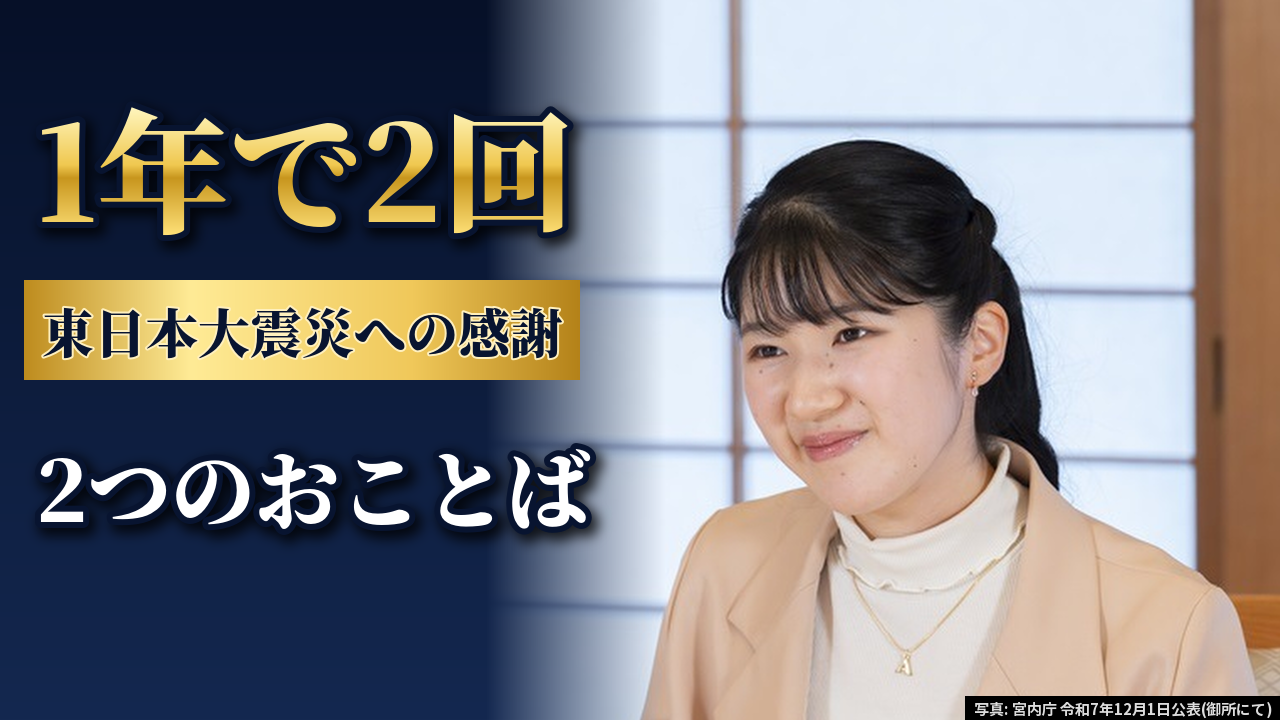
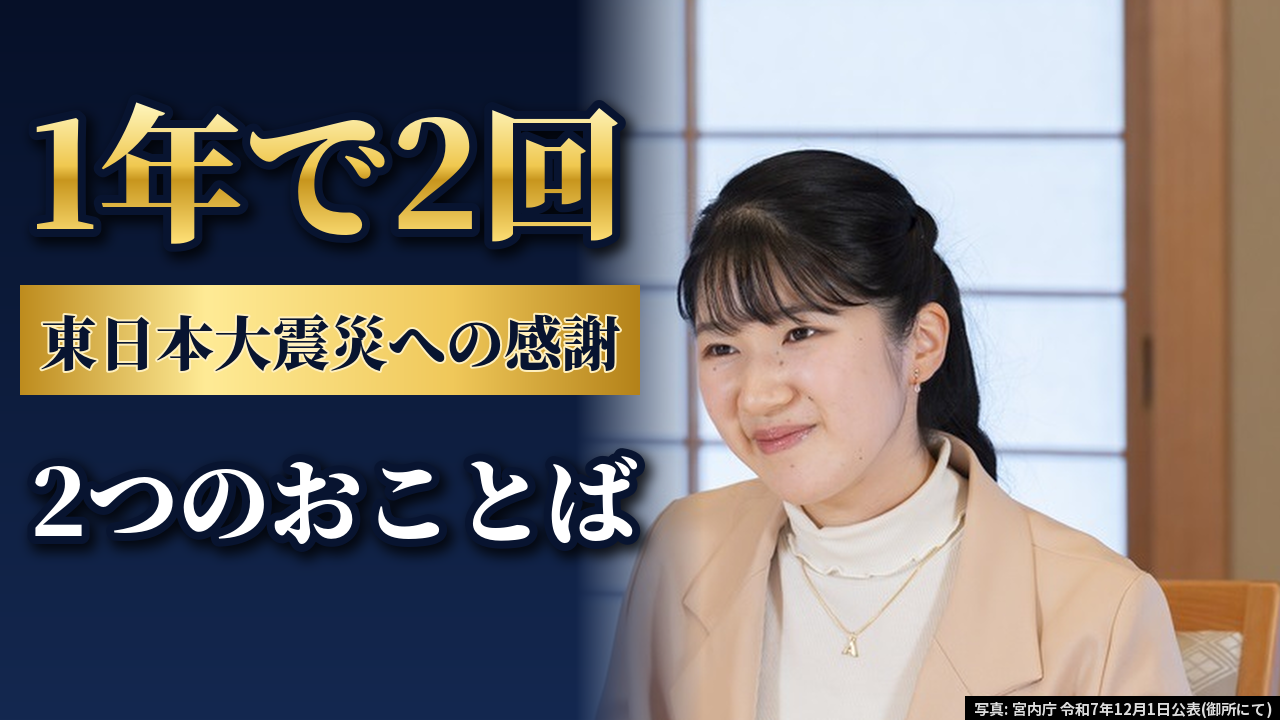
長尺の表紙: 写真5.5割・文字4.5割、55歳以上の女性がスマホで読める文字、下部の濃紺グラデーション廃止(荒木指示)
Claude-Session: https://claude.ai/code/session_01BJaPieHBuTRAAQkfULpzEX

diff --git a/pipeline/thumb_long.py b/pipeline/thumb_long.py
@@ -120,36 +120,35 @@ def credit(im, s):
     w = d.textlength(s, font=f); d.rectangle((W - w - 16, H - 24, W, H), fill=(0, 0, 0)); d.text((W - w - 8, H - 23), s, font=f, fill=(220, 220, 220))
 
 
-def type_R(out, img, focus, big, band, line, cap, big_fill="white", face_h=250):
-    """人物1名(バランス型・荒木さんと調整中の型): 右に写真(画面の約6割)、左に文字(読みやすい大きさ)"""
+def type_R(out, img, focus, big, band, line, cap, big_fill="white", face_h=240):
+    """人物1名(荒木さんと調整中の型): 写真 約5.5割(右)・文字 約4.5割(左)。スマホで55歳以上の女性が読める大きさ"""
+    PW = 704
     im = Image.new("RGB", (W, H), NAVY)
-    ph = place(img, 800, H, (430, 330), face_h, focus); im.paste(ph, (W - 800, 0))
-    fx, fy, fw, fh = place.last_face; faces_ = [(fx + W - 800, fy, fw, fh)]
-    fade = grad(W, H, [(0, (255, 255, 255)), (0.38, (255, 255, 255)), (0.52, (0, 0, 0)), (1, (0, 0, 0))], horizontal=True).convert("L")
+    ph = place(img, PW + 120, H, (400, 330), face_h, focus); im.paste(ph, (W - PW - 120, 0))
+    fx, fy, fw, fh = place.last_face; faces_ = [(fx + W - PW - 120, fy, fw, fh)]
+    fade = grad(W, H, [(0, (255, 255, 255)), (0.45, (255, 255, 255)), (0.55, (0, 0, 0)), (1, (0, 0, 0))], horizontal=True).convert("L")
     im = Image.composite(grad(W, H, [(0, (6, 16, 40)), (1, (20, 40, 80))]), im, fade)
-    text(im, (36, 70), big, 136, fill=big_fill, maxw=540)
-    gold_band(im, (24, 280, 580, 380), band, 74)
-    text(im, (36, 425), line, 84, maxw=560)
+    text(im, (30, 60), big, 150, fill=big_fill, sw=8, maxw=600)
+    gold_band(im, (20, 285, 640, 395), band, 84)
+    text(im, (30, 430), line, 96, sw=8, maxw=620)
     credit(im, cap); im.save(out)
-    check_faces(out, faces_, [(24, 50, 600, 240), (24, 280, 580, 380), (24, 415, 620, 540)])
+    check_faces(out, faces_, [(20, 40, 640, 250), (20, 285, 640, 395), (20, 420, 660, 560)])
 
 
 def type_D(out, img1, f1, img2, f2, top, big, band, cap):
-    """人物2名(または人物と場所)(バランス型): 左右に写真、上の帯と下の帯に文字"""
+    """人物2名(または人物と場所): 写真 約5.5割(中央の高さ)・文字 約4.5割(上の帯と下)。下部の濃紺グラデーションは使わない"""
     im = Image.new("RGB", (W, H), NAVY)
-    p1 = place(img1, 640, H, (320, 320), 200, f1); fa = place.last_face
-    p2 = place(img2, 640, H, (320, 320), 200, f2); fb = place.last_face
+    p1 = place(img1, 640, H, (320, 305), 175, f1); fa = place.last_face
+    p2 = place(img2, 640, H, (320, 305), 175, f2); fb = place.last_face
     im.paste(p1, (0, 0)); im.paste(p2, (640, 0))
     ImageDraw.Draw(im).line((640, 0, 640, H), fill=(10, 20, 45), width=6)
     faces_ = ([fa] if f1 is None or len(f1) < 4 else []) + ([(fb[0] + 640, fb[1], fb[2], fb[3])] if f2 is None or len(f2) < 4 else [])
-    im.paste(grad(W, 96, [(0, (6, 14, 36)), (1, (16, 32, 68))]), (0, 0))
-    text(im, (W // 2, 48), top, 72, anchor="mm", maxw=1200, shadow=False)
-    low = grad(W, 260, [(0, (0, 0, 0)), (0.35, (255, 255, 255)), (1, (255, 255, 255))]).convert("L")
-    im.paste(Image.new("RGB", (W, 260), (6, 14, 36)), (0, 460), low)
-    text(im, (W // 2, 548), big, 132, fill="gold", anchor="mm", maxw=1000)
-    gold_band(im, (190, 640, 1090, 708), band, 54)
+    im.paste(grad(W, 100, [(0, (6, 14, 36)), (1, (16, 32, 68))]), (0, 0))
+    text(im, (W // 2, 50), top, 80, anchor="mm", maxw=1220, shadow=False)
+    text(im, (W // 2, 538), big, 140, fill="gold", sw=9, anchor="mm", maxw=1060)
+    gold_band(im, (150, 640, 1130, 714), band, 62)
     credit(im, cap); im.save(out)
-    check_faces(out, faces_, [(0, 0, W, 96), (140, 480, 1140, 720)])
+    check_faces(out, faces_, [(0, 0, W, 100), (110, 465, 1170, 720)])
 
 
 if __name__ == "__main__":
@@ -159,6 +158,6 @@ if __name__ == "__main__":
     type_R(O + "thumb_A.png", A + "A115.jpg", None, "愛子さま", "2つの国のおことば", "込めた感謝とは？",
            "写真: 宮内庁 令和7年12月1日公表")
     type_R(O + "thumb_B.png", A + "A118.jpg", (0.53, 0.33, 0.17), "1年で2回", "東日本大震災への感謝", "2つのおことば",
-           "写真: 宮内庁 令和7年12月1日公表(御所にて)", big_fill="gold", face_h=190)
+           "写真: 宮内庁 令和7年12月1日公表(御所にて)", big_fill="gold", face_h=180)
     type_D(O + "thumb_C.png", A + "A020.jpg", None, S + "jg.jpg", (0.5, 0.5, 0.21, "scene"),
            "祖父母が植えた木", "56年前", "シンガポールで語られた3代", "写真: 宮内庁 2026.6.22 ©Naoya Ikegami/SUNTORY HALL / イメージ: 日本庭園 FN-082 CC BY-SA 4.0")

diff --git a/templates/thumb_long_template.md b/templates/thumb_long_template.md
@@ -19,15 +19,15 @@
 - **文字はワンフレーズで短く**（1行あたり目安8〜10字。長い文は載せない）。表紙の文字はタイトルの言葉から取る
 - 背景は写真。写真のない所は濃紺のグラデーション（写真へなじませる）
 - 赤・絵文字・汗マーク・?!・赤丸・作り台詞の吹き出し・矢印は使わない。写真は切り抜き・拡大縮小のみ（顔の加工・AI生成はしない。参考画像の生成画像そのものは使わない）
-- **お顔を文字に重ねない・見切れさせない（荒木指示 2026-11-24）：** お顔は決まった位置に決まった大きさで置く（型R: 右側 x約910・顔の高さ約250px／型D: 左右それぞれの中央・顔の高さ約200px、いずれも y約320）。髪から顎までの頭の範囲が、文字・帯の枠と重ならず、画面の外に出ないことを `check_faces` で必ず確かめる（不合格なら写真か位置を変える）。写真が足りない所は同じ写真のぼかしで埋める。主役以外の方のお顔が文字の下に半分隠れる写真は使わない
+- **お顔を文字に重ねない・見切れさせない（荒木指示 2026-11-24）：** お顔は決まった位置に決まった大きさで置く（型R: 右側 x約860・顔の高さ約240px・y約330／型D: 左右それぞれの中央・顔の高さ約175px・y約305）。髪から顎までの頭の範囲が、文字・帯の枠と重ならず、画面の外に出ないことを `check_faces` で必ず確かめる（不合格なら写真か位置を変える）。写真が足りない所は同じ写真のぼかしで埋める。主役以外の方のお顔が文字の下に半分隠れる写真は使わない
 - 右下に小さく写真の出典・撮影日
 
-**写真と文字のバランス（荒木指示 2026-11-24：画像を大事にしつつ、極端にしない）：** 写真が画面の約6割、文字が約4割。お顔ははっきり見える大きさ（型Rで約250px・型Dで約200px）、文字も読みやすい大きさにする。
+**写真と文字のバランス（荒木指示 2026-11-24 確定）：** **写真 約5.5割・文字 約4.5割。見る人はスマホで55歳以上の女性**と考え、文字は大きく太く（縁取り8〜9px＋影）、お顔ははっきり見える大きさ（型Rで約240px・型Dで約175px）にする。**下部に濃紺のグラデーションは敷かない**（下の文字は写真の上に縁取りで載せ、帯は金の帯だけ）。
 - **主役の写真は長辺1000px以上のものを使う**（宮内庁の400px程度の写真は大きく引き伸ばすとぼやけるため、主役には使わない）
 - 型は荒木さんとのやり取りで仕上げている途中。決まった点はこの文書に書き足していく
 
-**型R（人物1名）**: 右約6割に人物の写真、左に「大きな一言（白または金・約136px）」→「金の帯（約74px）」→「一言（白・約84px）」
-**型D（人物2名・または人物＋場所）**: 左右に写真、上の帯に白文字（約72px）、下に**金の一言（約132px）**と金の帯（約54px）。中央（お顔の高さ）には文字を置かない
+**型R（人物1名）**: 右約5.5割に人物の写真、左約4.5割に「大きな一言（白または金・約150px）」→「金の帯（約84px）」→「一言（白・約96px）」
+**型D（人物2名・または人物＋場所）**: 左右に写真、上の帯に白文字（約80px）、下に**金の一言（約140px）**と金の帯（約62px）。下部に濃紺のグラデーションは敷かない。中央（お顔の高さ）には文字を置かない
 
 ## 3パターン(A/B/C)の作り分け
 - タイトル3案（切り口がまったく違う: 強い疑問型／数字・事実型／人物の物語型）それぞれに表紙を1枚
